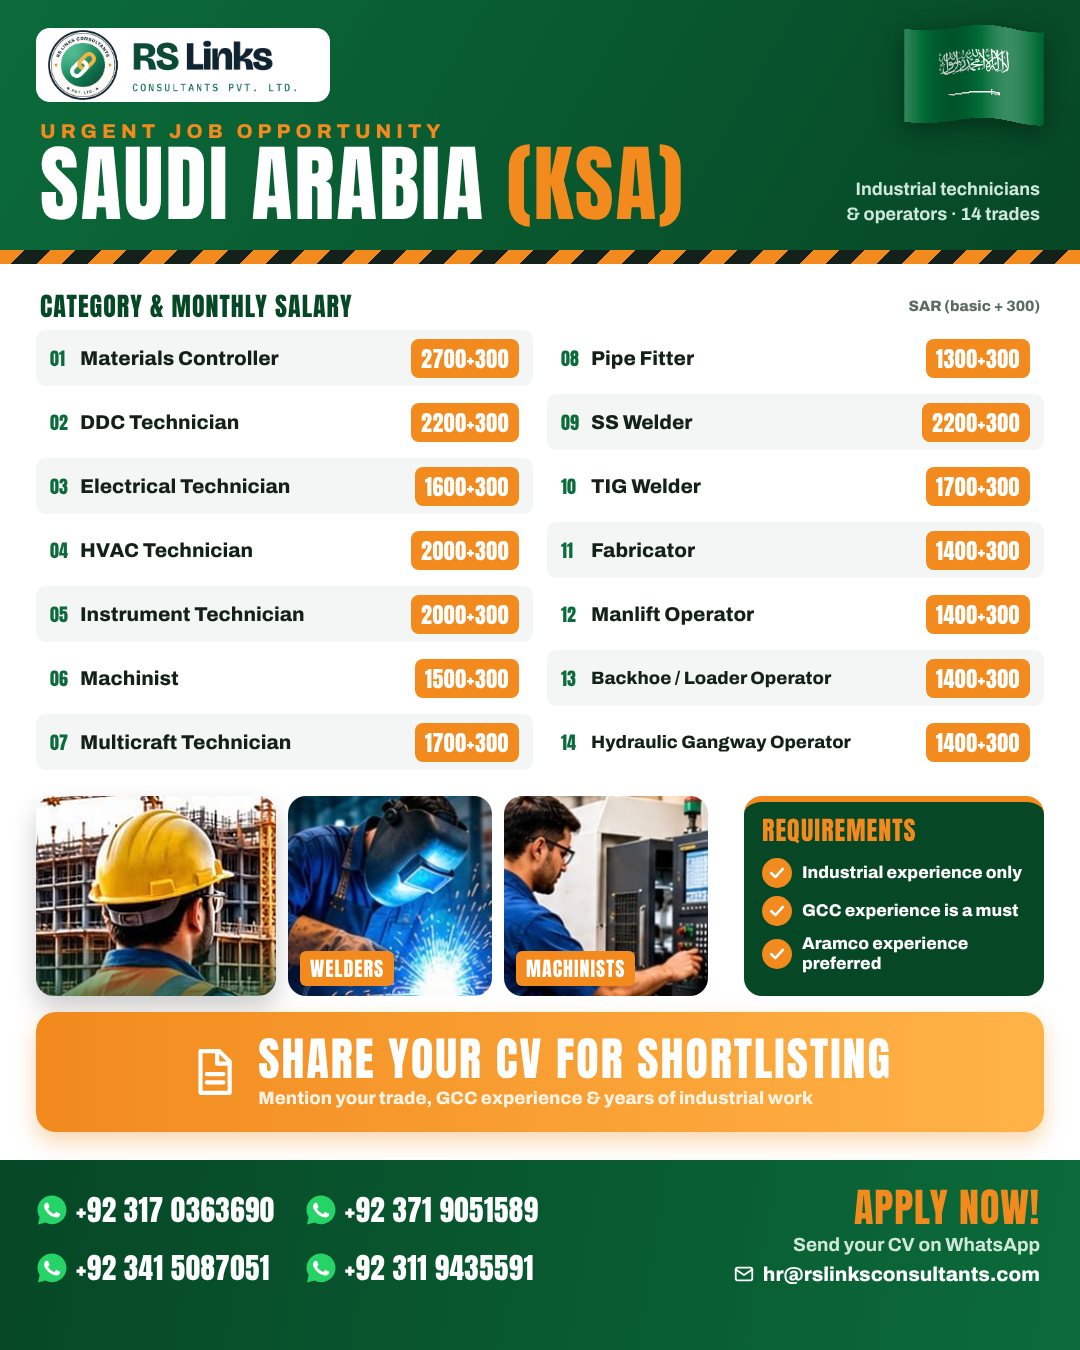
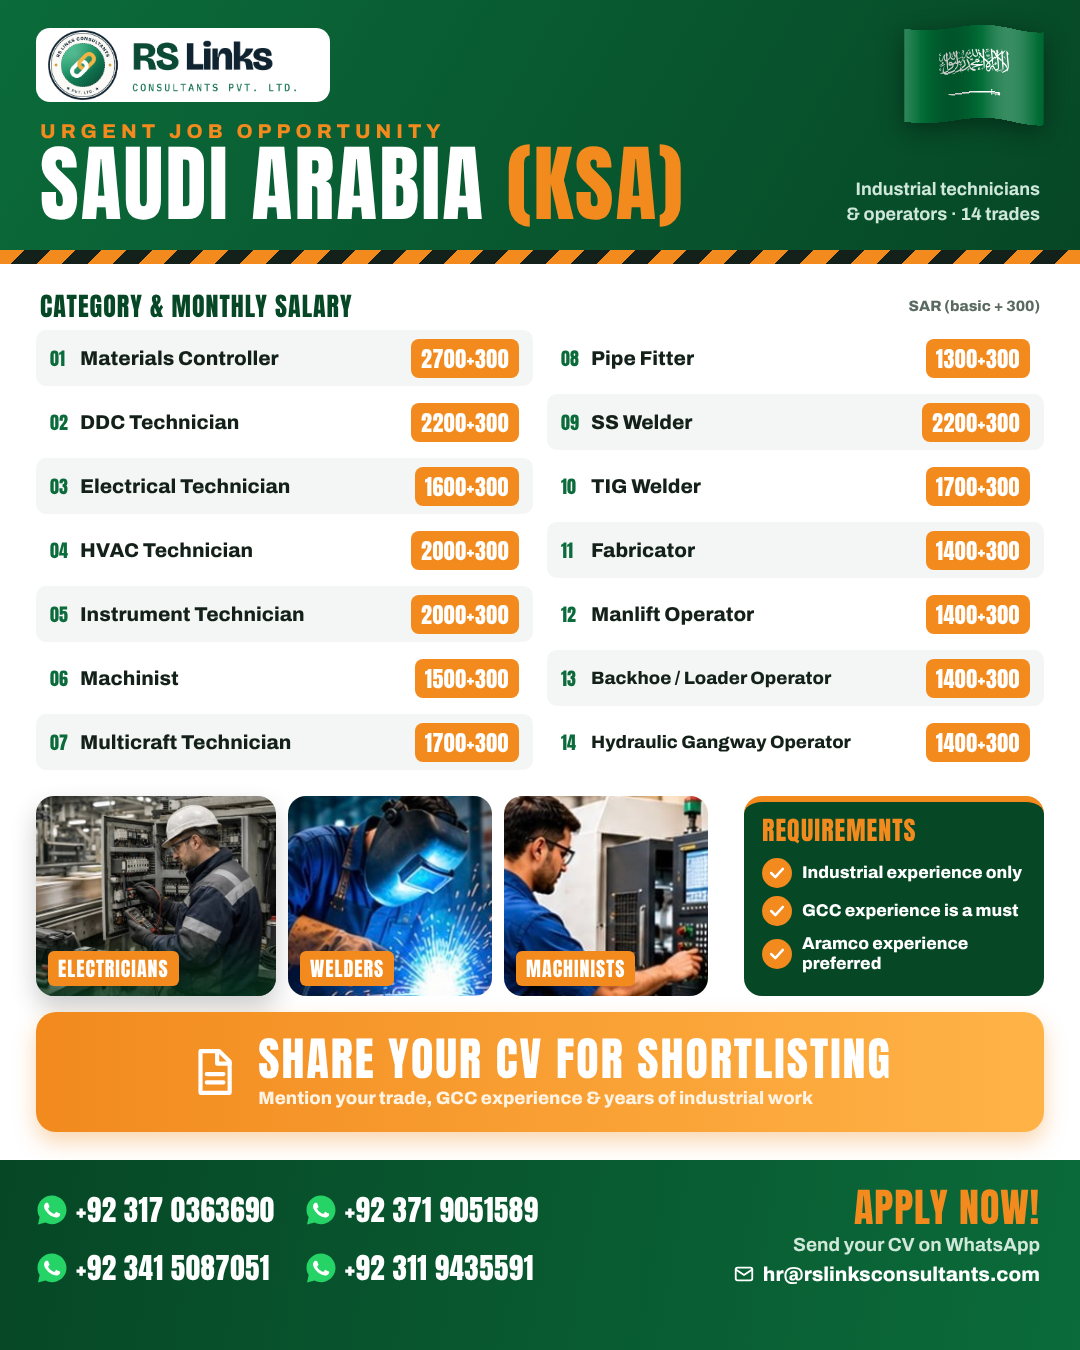
Add industrial electrician photos; use in Greece and KSA industrial ads
Claude-Session: https://claude.ai/code/session_01YJ5ofgU8QCiWTsYR9pvXG4

Changed region(s): [[0.0306, 0.5911, 0.275, 0.7467]]

diff --git a/src/ksa_industrial.py b/src/ksa_industrial.py
@@ -38,8 +38,8 @@ def build():
 <div class='abs' style='top:330px;left:36px;width:1008px;display:grid;grid-template-columns:1fr 1fr;gap:8px 14px'>
  <div style='display:flex;flex-direction:column;gap:8px'>{col(0, 7)}</div><div style='display:flex;flex-direction:column;gap:8px'>{col(7, 14)}</div></div>
 
-<div class='abs' style='top:796px;left:36px;width:240px;height:200px;border-radius:18px;overflow:hidden;box-shadow:0 12px 26px rgba(0,0,0,.2)'>{ph('rslinks_construction_engineer.png', 'center 20%')}
- <div style='position:absolute;left:0;right:0;bottom:0;height:60px;background:linear-gradient(0deg,{GRN2}99,{GRN2}00)'></div></div>
+<div class='abs' style='top:796px;left:36px;width:240px;height:200px;border-radius:18px;overflow:hidden;box-shadow:0 12px 26px rgba(0,0,0,.2)'>{ph('elec_panel_main.jpg', '65% 20%')}
+ <div style='position:absolute;left:0;right:0;bottom:0;height:60px;background:linear-gradient(0deg,{GRN2}99,{GRN2}00)'></div><span style='position:absolute;left:12px;bottom:10px;background:{ORG};color:#fff;font:400 20px Anton;padding:2px 10px;border-radius:6px;letter-spacing:1px'>ELECTRICIANS</span></div>
 <div class='abs' style='top:796px;right:36px;width:300px;height:200px;border-radius:18px;background:{GRN2};padding:8px 18px;box-sizing:border-box;border-top:6px solid {ORG}'>
  <div style='font:400 26px Anton;color:{ORG};letter-spacing:1px'>REQUIREMENTS</div>{req_li}</div>
 

diff --git a/src/greece_ecycle.py b/src/greece_ecycle.py
@@ -43,7 +43,7 @@ def build():
  <div style='margin-top:18px;display:inline-block;background:{BLUE};border-radius:14px;padding:12px 22px'>
   <div style='font:400 36px Anton;color:#fff;letter-spacing:1.5px;line-height:1.05'>FACTORY WORKERS</div>
   <div style='font:800 18px Archivo;color:#CFE2F8;margin-top:6px;letter-spacing:1px'>Electric cycle (e-bike) manufacturing</div></div></div>
-<div class='abs' style='top:170px;right:40px;width:420px;height:470px;border-radius:210px 210px 28px 28px;overflow:hidden;border:8px solid #fff;outline:4px solid {BLUE};box-shadow:0 20px 40px rgba(7,59,115,.3)'>{ph('tr_plastic.png', 'center 40%')}</div>
+<div class='abs' style='top:170px;right:40px;width:420px;height:470px;border-radius:210px 210px 28px 28px;overflow:hidden;border:8px solid #fff;outline:4px solid {BLUE};box-shadow:0 20px 40px rgba(7,59,115,.3)'>{ph('elec_factory_floor.jpg', '70% 30%')}</div>
 <div class='abs' style='top:556px;left:44px;width:430px;height:180px;border-radius:24px;background:linear-gradient(135deg,{BLUE},{BLUE2});box-shadow:0 16px 32px rgba(7,59,115,.35);display:flex;flex-direction:column;align-items:center;justify-content:center'>
  <div style='font:800 16px Archivo;color:#CFE2F8;letter-spacing:3px'>SALARY</div>
  <div style='font:400 84px Anton;color:#fff;line-height:1'>€900</div>
